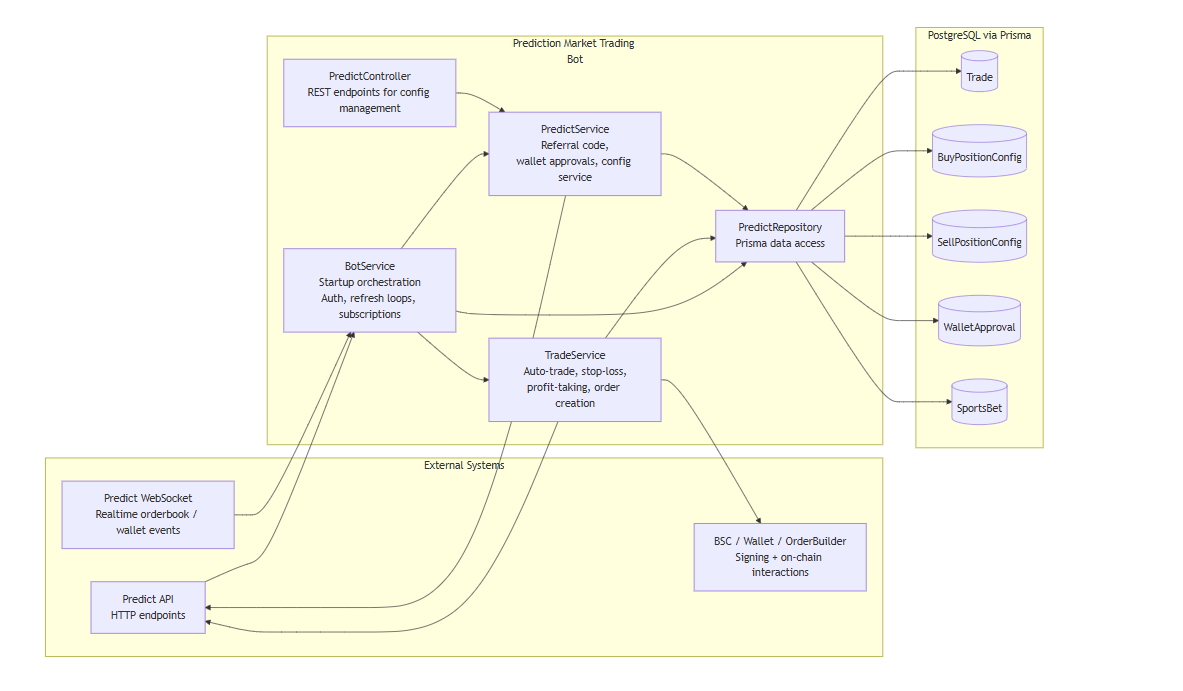
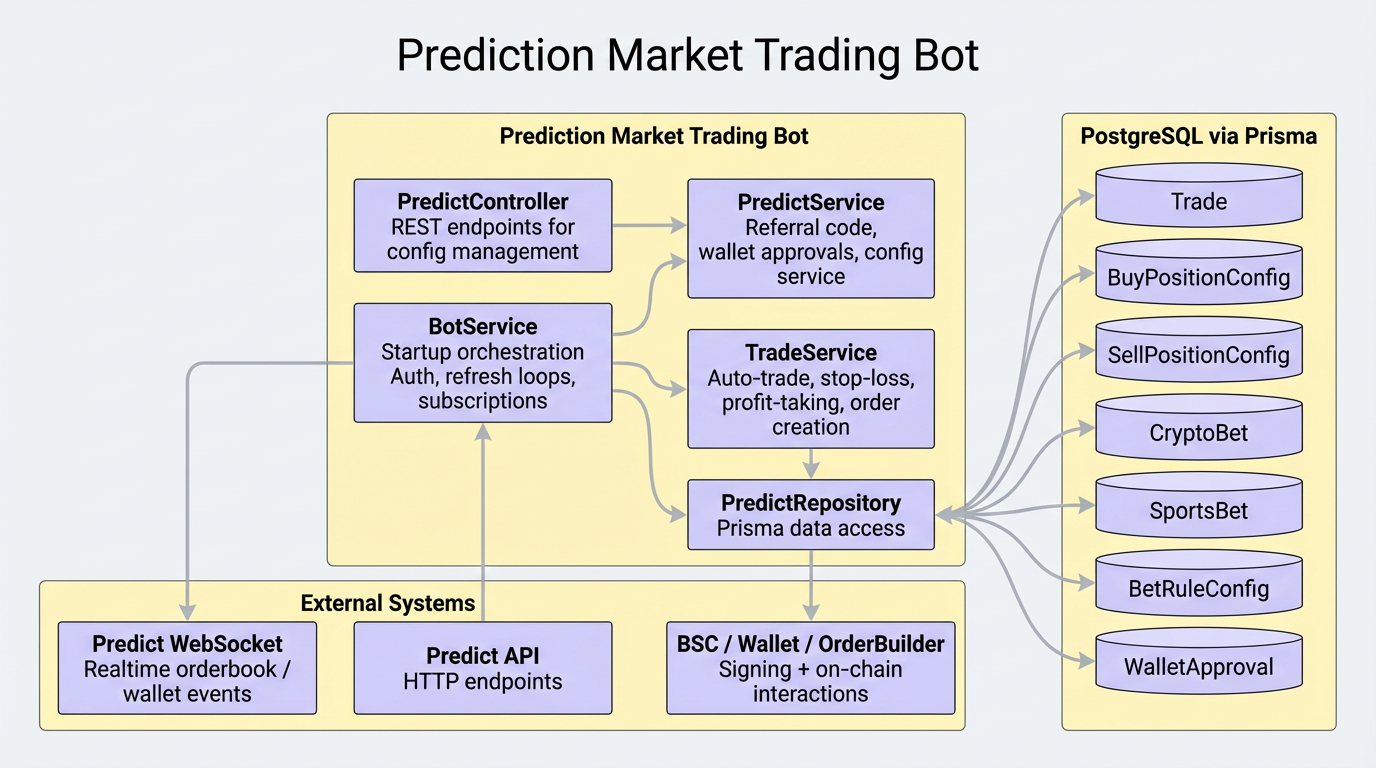
docs: updated images

diff --git a/docs/trading.md b/docs/trading.md
@@ -102,7 +102,7 @@ Legacy stored values are still normalized:
 
 ### `CRYPTO_UP_DOWN`
 
-Current matching is rule-driven via `CryptoBet`. The first enabled `ACTIVE` rule by priority that matches the slug resolves the config key.
+Current matching is rule-driven via `CryptoBet`. The first enabled rule with `BetRuleConfig.status = ACTIVE` and lowest `BetRuleConfig.priority` that matches the slug resolves the config key.
 
 Example:
 
@@ -114,7 +114,7 @@ Example:
 
 Behavior:
 
-1. The bot evaluates enabled `CryptoBet` rows in priority order.
+1. The bot evaluates enabled `CryptoBet` rows in `BetRuleConfig.priority` order.
 2. The first matching rule returns `configKey`.
 3. The buy config is loaded by `configKey`.
 4. `entry` and `tradeType` are taken from that config.
@@ -178,7 +178,7 @@ sequenceDiagram
     API-->>Trade: Market and prices
     Trade->>Trade: Check market time left and zero-price guard
     alt SPORTS_TEAM_MATCH with keyword
-      Trade->>Trade: Match sports keyword against outcome names using SportsBet priority
+      Trade->>Trade: Match sports keyword against outcome names using BetRuleConfig priority
       alt No matching outcome
         Trade-->>Bot: Skip
       else Matching outcome found
@@ -293,8 +293,8 @@ sequenceDiagram
 - For sports, keyword-to-outcome-name matching is authoritative.
 - For sports, when multiple supported teams match one slug, lower `BetRuleConfig.priority` wins.
 - For non-sports binary markets, `tradeType` controls which binary outcome to buy.
-- Per-outcome `amount` is enforced on `SportsBet` and `CryptoBet`.
-- `profitTakingPercentage` remains optional on `SportsBet` and `CryptoBet` with env fallback.
+- Per-outcome `amount` is enforced through `BetRuleConfig` linked from `SportsBet` and `CryptoBet`.
+- `profitTakingPercentage` remains optional in `BetRuleConfig` with env fallback.
 
 ## Current implementation assumptions
 

diff --git a/README.md b/README.md
@@ -20,8 +20,8 @@ _The image above shows the Predict bot interface._
 - `CryptoBet` model naming (DB-mapped to legacy `SlugMatchRule` table).
 - `SportsBet` and `CryptoBet` now support `status` (`ACTIVE` | `INACTIVE`).
 - `SportsBet` and `CryptoBet` now enforce `amount` per matched outcome/rule and can optionally set `profitTakingPercentage`.
-- Shared rule settings are normalized through `BetRuleConfig` to avoid duplicated schema across `SportsBet` and `CryptoBet`.
-- `SportsBet` now supports `priority` so head-to-head supported teams resolve deterministically.
+- Shared rule settings are normalized through `BetRuleConfig` (`amount`, `profitTakingPercentage`, `status`, `priority`) to avoid duplicated schema.
+- Sports head-to-head conflicts resolve deterministically via `BetRuleConfig.priority`.
 - Inactive bet entries block both buy and sell decisions for matching markets.
 - Expanded API routes for `market-profile`, `crypto-bet`, and `sports-bet`.
 
@@ -29,7 +29,7 @@ _The image above shows the Predict bot interface._
 
 - Supports `CRYPTO_UP_DOWN` markets with dynamic rule matching via `CryptoBet`.
 - Supports `SPORTS_TEAM_MATCH` markets via category + keyword matching in `SportsBet`.
-- Uses `SportsBet.priority` when multiple supported teams match the same sports slug.
+- Uses `BetRuleConfig.priority` when multiple supported teams match the same sports slug.
 - Applies stop-loss and profit-taking logic across supported market variants.
 
 Backward-compatible alias endpoints are still available:

diff --git a/docs/crypto-bet-rules.md b/docs/crypto-bet-rules.md
@@ -20,11 +20,11 @@ Compatibility aliases:
 - `configKey`: should match your config rows (`BuyPositionConfig.slugWithSuffix`, `SellPositionConfig.slugWithSuffix`), for example `daily`
 - `matchType`: `prefix` | `suffix` | `regex`
 - `pattern`: matcher expression (regex supported)
-- `status`: `ACTIVE` | `INACTIVE` (inactive blocks buy/sell continuation)
+- `status`: `ACTIVE` | `INACTIVE` (stored in shared `BetRuleConfig`; inactive blocks buy/sell continuation)
 - `enabled`: toggle rule on/off
-- `priority`: lower runs first
-- `amount`: required buy amount for this specific crypto rule
-- `profitTakingPercentage`: optional profit-taking setting for this specific crypto rule
+- `priority`: lower runs first (stored in shared `BetRuleConfig`)
+- `amount`: required buy amount for this specific crypto rule (stored in shared `BetRuleConfig`)
+- `profitTakingPercentage`: optional profit-taking setting for this specific crypto rule (stored in shared `BetRuleConfig`)
 
 ## BTC-first rollout
 
@@ -54,7 +54,8 @@ Create this rule first:
   "pattern": "^ethereum-up-or-down-on-[a-z]+-\\d{1,2}-\\d{4}$",
   "status": "ACTIVE",
   "enabled": true,
-  "priority": 2
+  "priority": 2,
+  "amount": 20
 }
 ```
 
@@ -68,7 +69,8 @@ Create this rule first:
   "pattern": "^bnb-up-or-down-on-[a-z]+-\\d{1,2}-\\d{4}$",
   "status": "ACTIVE",
   "enabled": true,
-  "priority": 3
+  "priority": 3,
+  "amount": 15
 }
 ```
 

diff --git a/docs/architecture.md b/docs/architecture.md
@@ -9,7 +9,7 @@ This document describes how the prediction market trading bot is structured and 
 - **PredictService** (`src/predict/predict.service.ts`): Handles referral setup, approvals, and config-oriented service methods.
 - **PredictRepository** (`src/predict/predict.repository.ts`): Prisma data access for trades, wallet approvals, and strategy config records.
 - **PredictController** (`src/predict/predict.controller.ts`): REST endpoints for creating/updating buy/sell configuration.
-- **Data layer**: PostgreSQL via Prisma (`MarketProfile`, `Trade`, `BuyPositionConfig`, `SellPositionConfig`, `CryptoBet`, `WalletApproval`, `SportsBet`).
+- **Data layer**: PostgreSQL via Prisma (`MarketProfile`, `Trade`, `BuyPositionConfig`, `SellPositionConfig`, `CryptoBet`, `SportsBet`, `BetRuleConfig`, `WalletApproval`).
 
 ## Architecture diagram
 
@@ -38,8 +38,9 @@ flowchart LR
     TBL2[(BuyPositionConfig)]
     TBL3[(SellPositionConfig)]
     TBL4[(CryptoBet)]
-    TBL5[(WalletApproval)]
-    TBL6[(SportsBet)]
+    TBL5[(SportsBet)]
+    TBL6[(BetRuleConfig)]
+    TBL7[(WalletApproval)]
   end
 
   PAPI --> BOT
@@ -65,6 +66,7 @@ flowchart LR
   REPO --> TBL4
   REPO --> TBL5
   REPO --> TBL6
+  REPO --> TBL7
 ```
 
 ## Sequence diagram (short worker flow)

diff --git a/docs/model-relationships.md b/docs/model-relationships.md
@@ -44,7 +44,6 @@ erDiagram
     BuyPositionConfig {
       int id PK
       int marketProfileId FK
-      int amount
       int entry
       BuyTradeType tradeType
     }
@@ -98,14 +97,14 @@ erDiagram
 ```mermaid
 flowchart TD
   A[Incoming market slug + variant] --> B{Variant}
-  B -->|CRYPTO_UP_DOWN| C[Match CryptoBet by pattern/priority]
-  B -->|SPORTS_TEAM_MATCH| D[Match SportsBet by category+keyword+priority]
+  B -->|CRYPTO_UP_DOWN| C[Match CryptoBet by pattern + BetRuleConfig priority]
+  B -->|SPORTS_TEAM_MATCH| D[Match SportsBet by category+keyword + BetRuleConfig priority]
 
-  C --> E{CryptoBet status}
+  C --> E{BetRuleConfig status}
   E -->|ACTIVE| F[Resolve MarketProfile configKey]
   E -->|INACTIVE| X[Skip buy/sell]
 
-  D --> G{SportsBet status}
+  D --> G{BetRuleConfig status}
   G -->|ACTIVE| F
   G -->|INACTIVE| X
 
